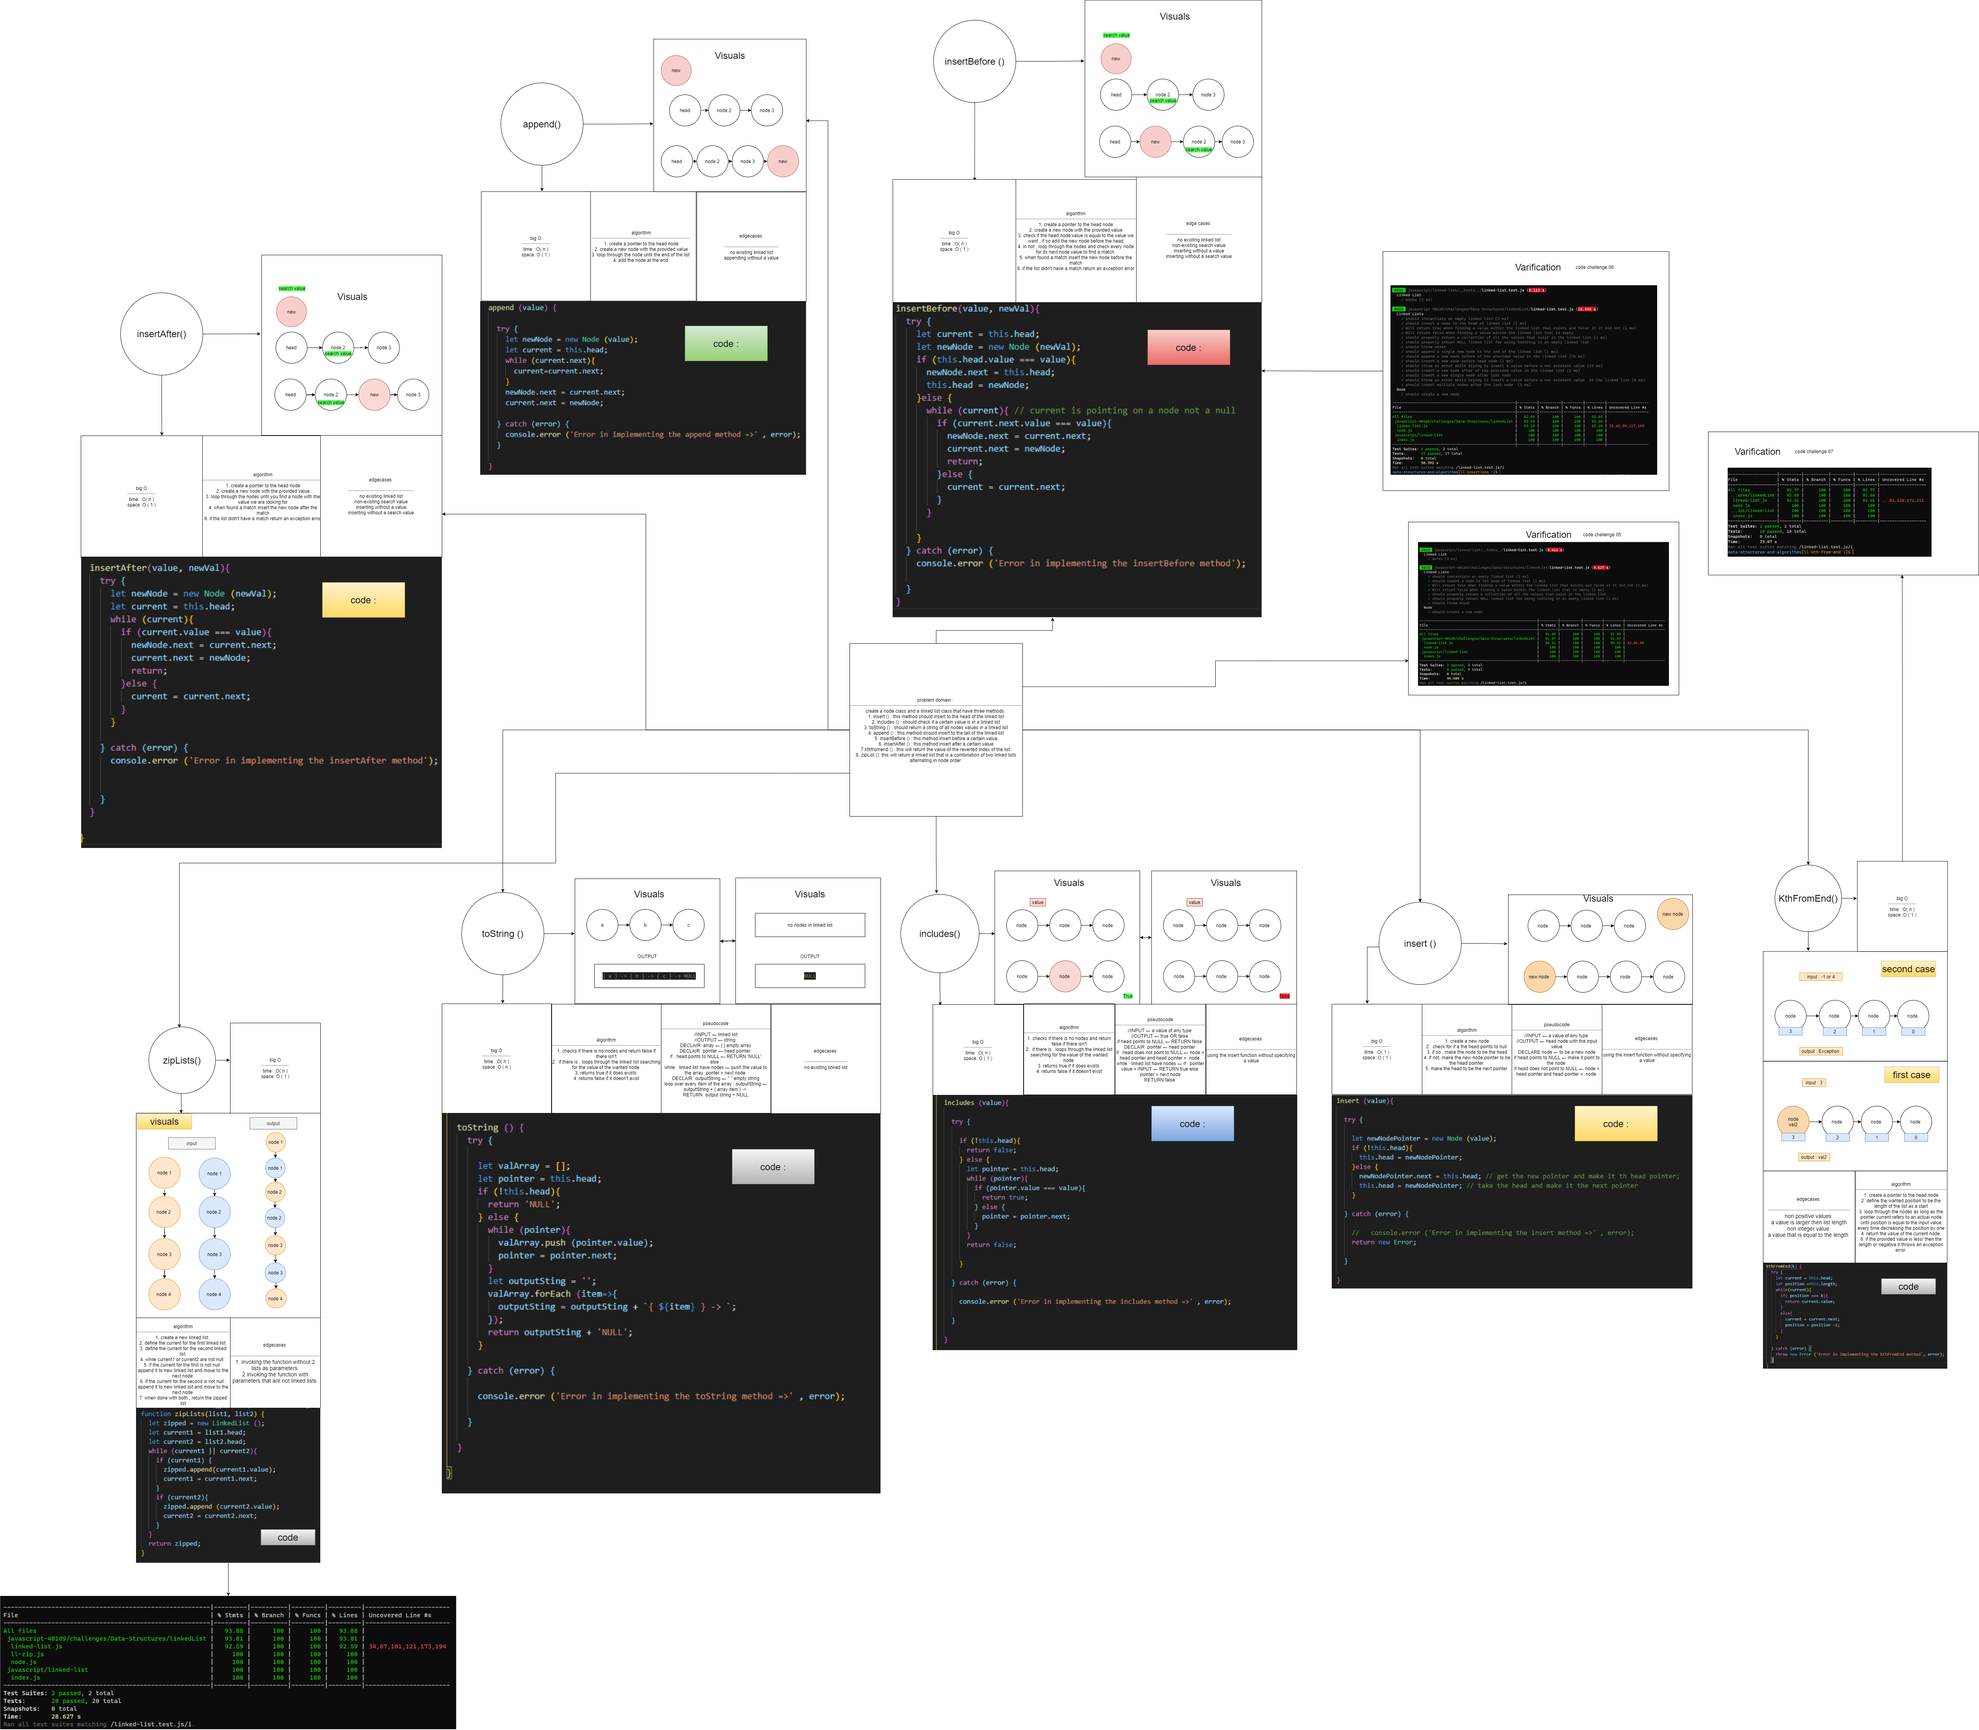
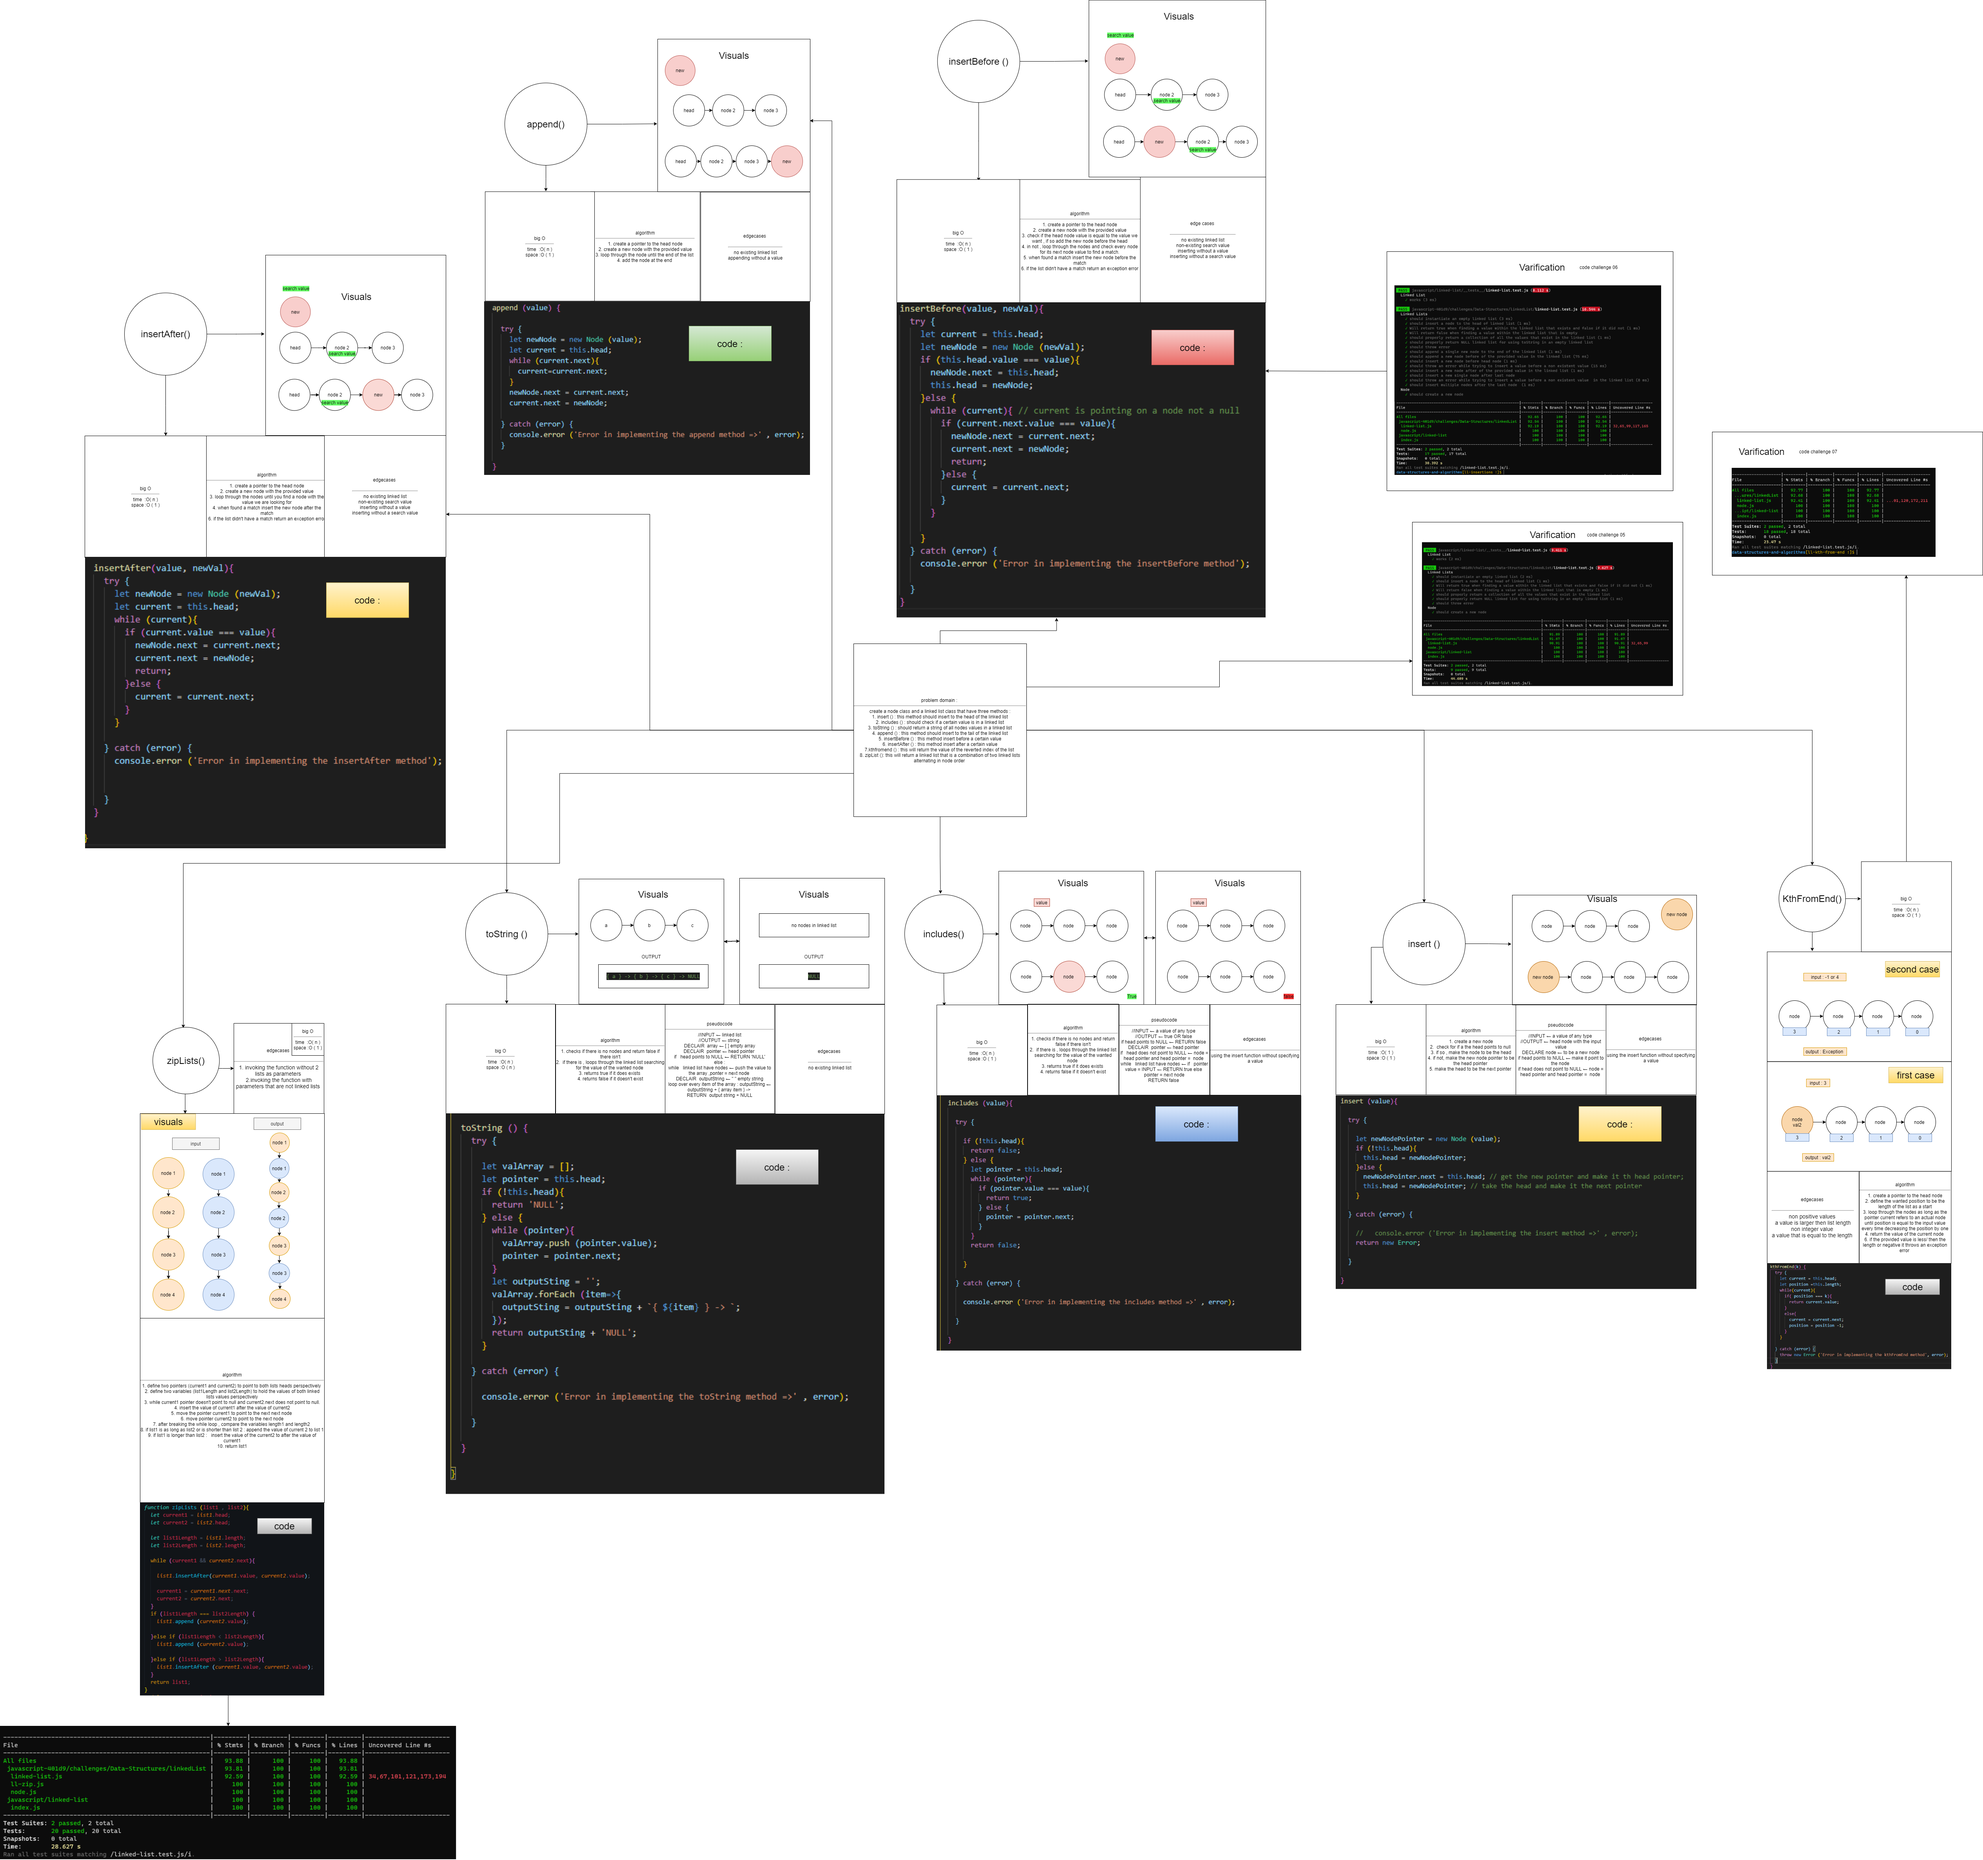
fixed code challenge 8

diff --git a/javascript-401d9/challenges/Data-Structures/linkedList/ll-zip.js b/javascript-401d9/challenges/Data-Structures/linkedList/ll-zip.js
@@ -1,21 +1,47 @@
 
 'use strict';
 const LinkedList  = require ('./linked-list.js');
-function zipLists(list1, list2) {
-  let zipped = new LinkedList ();
+// function zipLists(list1, list2) {
+//   let zipped = new LinkedList ();
+//   let current1 = list1.head;
+//   let current2 = list2.head;
+//   while (current1 || current2){
+//     if (current1) {
+//       zipped.append(current1.value);
+//       current1 = current1.next;
+//     }
+//     if (current2){
+//       zipped.append (current2.value);
+//       current2 = current2.next;
+//     }
+//   }
+//   return zipped;
+// }
+
+
+function zipLists (list1 , list2){
   let current1 = list1.head;
   let current2 = list2.head;
-  while (current1 || current2){
-    if (current1) {
-      zipped.append(current1.value);
-      current1 = current1.next;
-    }
-    if (current2){
-      zipped.append (current2.value);
-      current2 = current2.next;
-    }
-  }
-  return zipped;
-}
 
+  let list1Length = list1.length;
+  let list2Length = list2.length;
+
+  while (current1 && current2.next){
+
+    list1.insertAfter(current1.value, current2.value);
+
+    current1 = current1.next.next;
+    current2 = current2.next;
+  }
+  if (list1Length === list2Length) {
+    list1.append (current2.value);
+
+  }else if (list1Length < list2Length){
+    list1.append (current2.value);
+
+  }else if (list1Length > list2Length){
+    list1.insertAfter (current1.value, current2.value);
+  }
+  return list1;
+}
 module.exports = zipLists;

diff --git a/javascript-401d9/challenges/Data-Structures/README.md b/javascript-401d9/challenges/Data-Structures/README.md
@@ -99,13 +99,16 @@ Within your LinkedList class, include a head property. Upon instantiation, an em
 * space :O ( 1 )
 ***
 ### zipLists (list1 , list2) :
-1. create a new linked list .
-2. define the current for the first linked list.
-3. define the current for the second linked list.
-4. while current1 or current2 are not null :
-5. if the current for the first is not null : append it to new linked list and move to the next node 
-6. if the current for the second is not null : append it to new linked list and move to the next node 
-7. when done with both , return the zipped list
+1. define two pointers (current1 and current2) to point to both lists heads perspectively 
+2. define two variables (list1Length and list2Length) to hold the values of both linked lists values perspectively
+3. while current1 pointer doesn't point to null and current2.next does not point to null.
+4. insert the value of current1 after the value of current2
+5. move the pointer current1 to point to the next next node 
+6. move pointer current2 to point to the next node
+7. after breaking the while loop , compare the variables length1 and length2 
+8. if list1 is as long as list2 or is shorter than list 2 : append the value of current 2 to list 1
+9. if list1 is longer than list2 :   insert the value of the current2 to after the value of current1
+10. return list1
 ### big O
 * time  :O( n )
 * space :O ( 1 )
